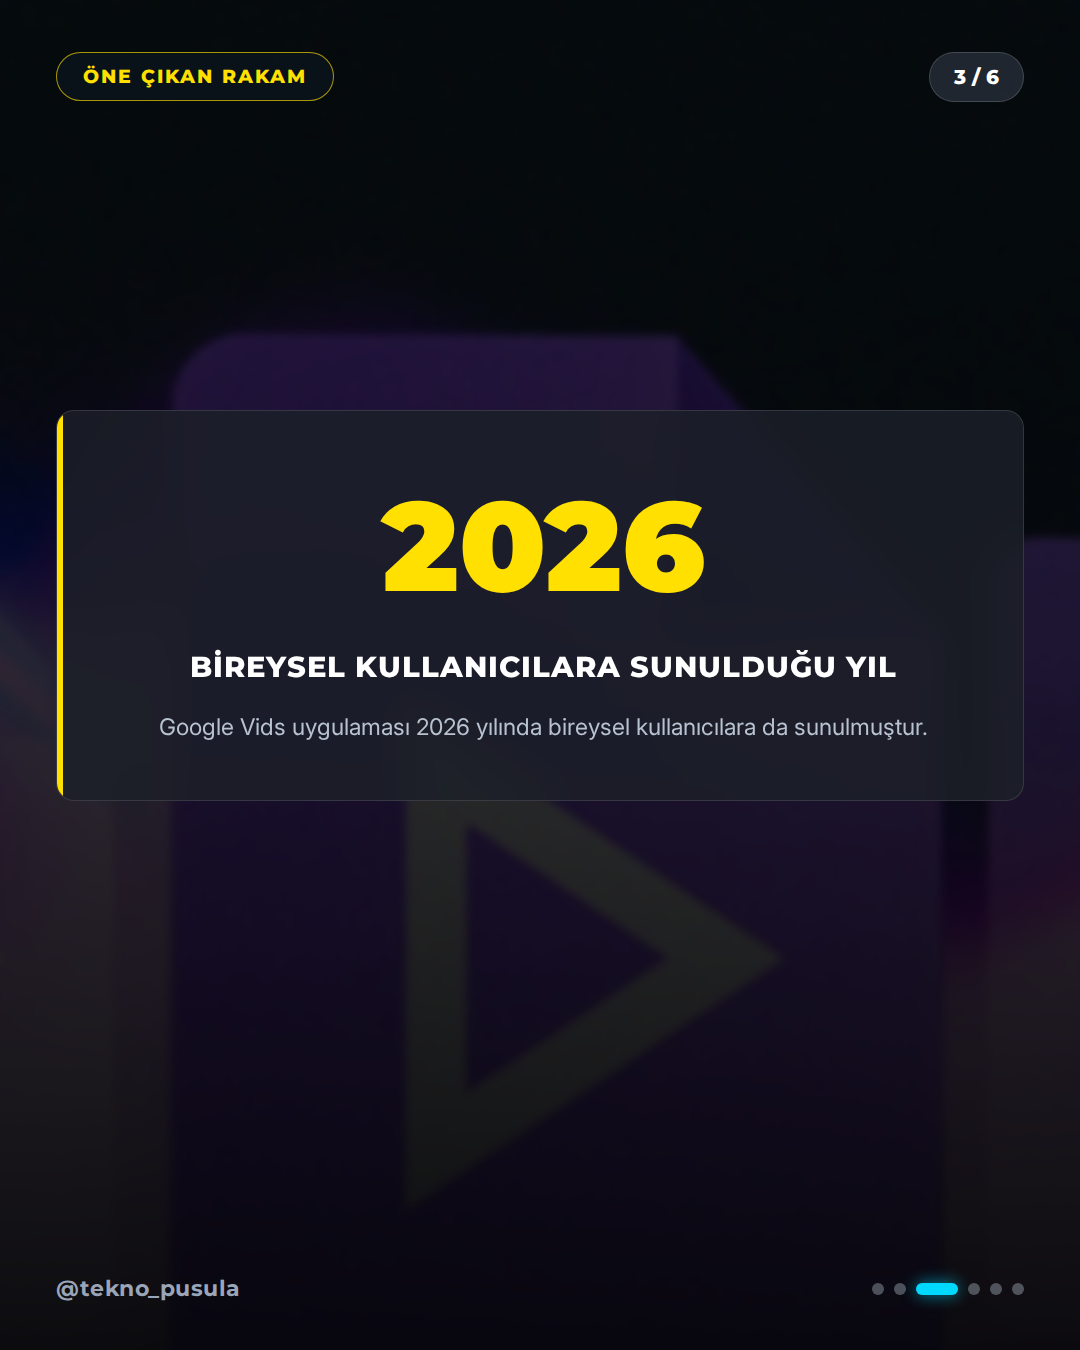
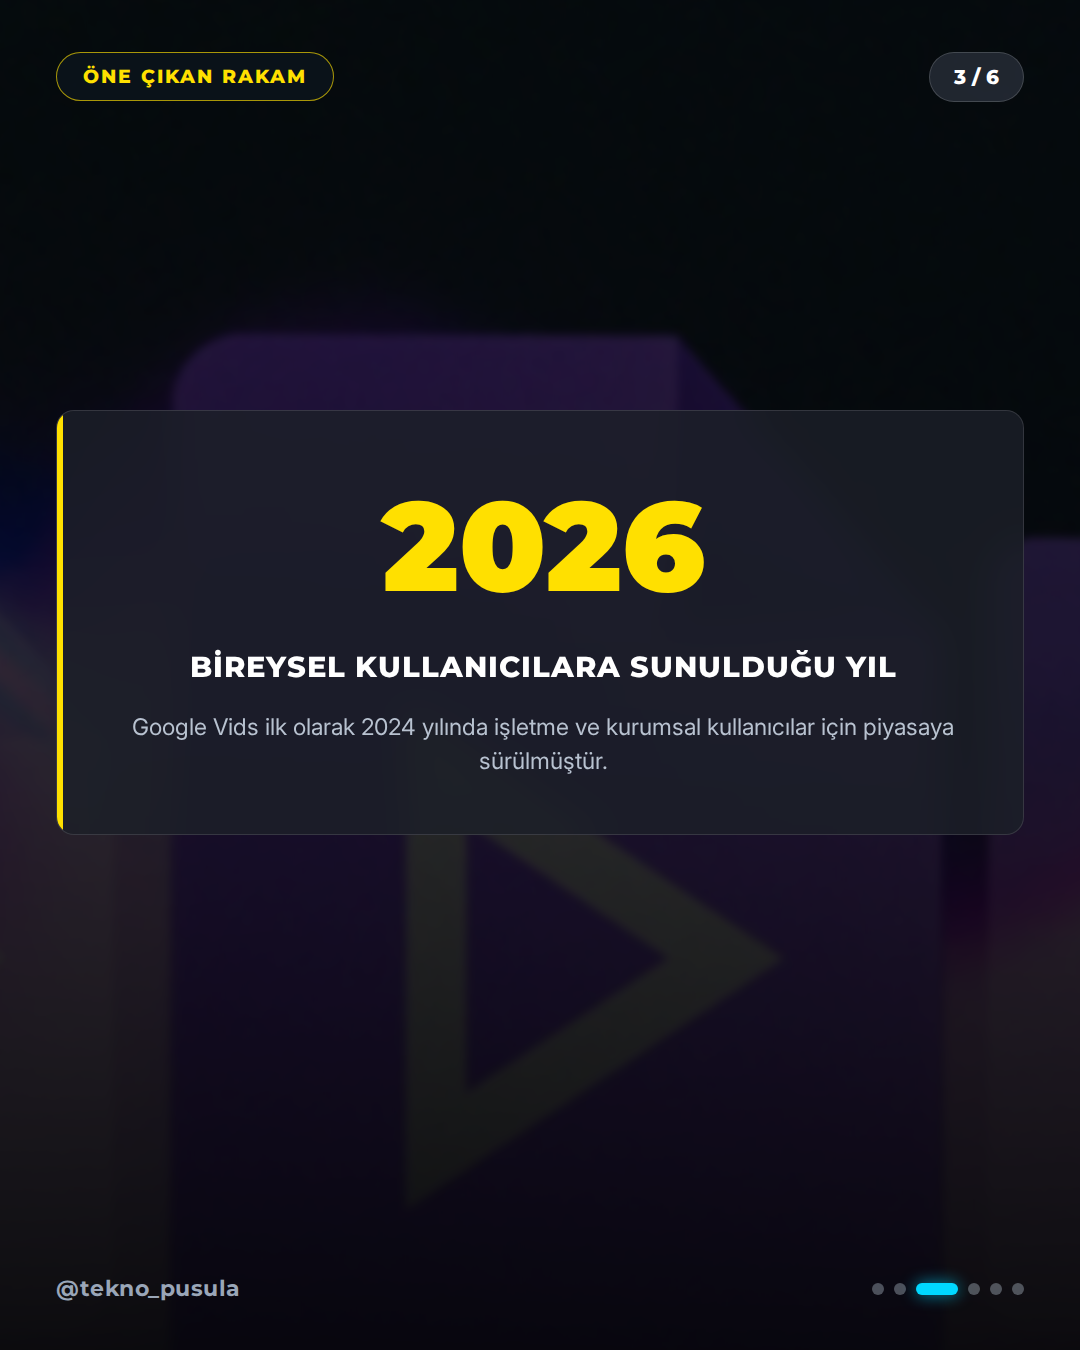
🤖 post: 2026-11-01 15:00 – There’s a Free Video Editor Inside Google Drive That Anyone

Changed region(s): [[0.1222, 0.5289, 0.8861, 0.5911], [0.0306, 0.5911, 0.0611, 0.6222]]

diff --git a/output/2026-11-01/03-1500-there-s-a-free-video-editor-inside-google-drive/verification.md b/output/2026-11-01/03-1500-there-s-a-free-video-editor-inside-google-drive/verification.md
@@ -2,27 +2,27 @@
 
 **Haber:** There’s a Free Video Editor Inside Google Drive That Anyone Can Use
 **Canonical URL:** https://www.wired.com/story/google-vids-free-video-editor-inside-google-drive/
-**Kaynaklar:** Wired, Ars Technica, TechCrunch, MIT Technology Review
-**Kontrol zamanı:** 2026-11-01T15:17:13+03:00
+**Kaynaklar:** Wired, Ars Technica, Google Blog, TechCrunch
+**Kontrol zamanı:** 2026-11-01T15:22:07+03:00
 **Sonuç:** ✅ YAYINLANABİLİR
 
 ---
 
 ## İddia Bazlı Sonuçlar
 
-### 1. Google Vids, Google Workspace paketinin bir parçası olarak sunulan çevrimiçi bir video düzenleme uygulamasıdır.
+### 1. Google Vids, Google Workspace bünyesinde yer alan çevrimiçi bir video düzenleme paketidir.
 - **Karar:** ✅ `supported`
 - **Kanıtlar:**
   - [https://www.wired.com/story/google-vids-free-video-editor-inside-google-drive/](https://www.wired.com/story/google-vids-free-video-editor-inside-google-drive/)
     > There's more to the suite of Google Workspace tools than you might have realized though, including an online video editing package called Google Vids.
 
-### 2. Google Vids, ilk olarak 2024 yılında iş ve kurumsal kullanıcılar için piyasaya sürülmüştür.
+### 2. Google Vids ilk olarak 2024 yılında işletme ve kurumsal kullanıcılar için piyasaya sürülmüştür.
 - **Karar:** ✅ `supported`
 - **Kanıtlar:**
   - [https://www.wired.com/story/google-vids-free-video-editor-inside-google-drive/](https://www.wired.com/story/google-vids-free-video-editor-inside-google-drive/)
     > Originally launched in 2024 for business and enterprise users, the app was made available to individuals in 2026 and continues to get regular updates from Google.
 
-### 3. Google Vids uygulaması 2026 yılında bireysel kullanıcılara da sunulmuştur.
+### 3. Google Vids, 2026 yılında bireysel kullanıcılara sunulmuştur.
 - **Karar:** ✅ `supported`
 - **Kanıtlar:**
   - [https://www.wired.com/story/google-vids-free-video-editor-inside-google-drive/](https://www.wired.com/story/google-vids-free-video-editor-inside-google-drive/)
@@ -34,11 +34,13 @@
   - [https://www.wired.com/story/google-vids-free-video-editor-inside-google-drive/](https://www.wired.com/story/google-vids-free-video-editor-inside-google-drive/)
     > Since it's both free to use and designed to run in a web browser, it's not capable of pro-level, high-resolution, multitrack video editing.
 
-### 5. Google Vids içerisinde Veo 3.1 modeli kullanılarak yapay zeka videoları oluşturulabilir.
+### 5. Google Vids arayüzünde Veo 3.1 modeli ile yapay zeka videoları oluşturulabilir.
 - **Karar:** ✅ `supported`
 - **Kanıtlar:**
   - [https://www.wired.com/story/google-vids-free-video-editor-inside-google-drive/](https://www.wired.com/story/google-vids-free-video-editor-inside-google-drive/)
     > You can generate AI videos with the Veo 3.1 model, turn a slideshow into a video, work from a template, upload an existing video as a starting point, create an AI music track, record a video using your camera, produce a video with an AI avatar, or create a storyboard outline.
+  - [https://www.wired.com/story/google-vids-free-video-editor-inside-google-drive/](https://www.wired.com/story/google-vids-free-video-editor-inside-google-drive/)
+    > You can generate AI videos with the Veo 3.1 model, turn a slideshow into a video, work from a template...
 
 ---
 
@@ -46,15 +48,15 @@
 
 | İddia | 1. Tur | 2. Tur | Nihai |
 |-------|--------|--------|-------|
-| Google Vids, Google Workspace paketinin bir parçası olarak s | supported | supported | supported |
-| Google Vids, ilk olarak 2024 yılında iş ve kurumsal kullanıc | supported | supported | supported |
-| Google Vids uygulaması 2026 yılında bireysel kullanıcılara d | supported | supported | supported |
+| Google Vids, Google Workspace bünyesinde yer alan çevrimiçi  | supported | supported | supported |
+| Google Vids ilk olarak 2024 yılında işletme ve kurumsal kull | supported | supported | supported |
+| Google Vids, 2026 yılında bireysel kullanıcılara sunulmuştur | supported | supported | supported |
 | Google Vids kullanımı ücretsizdir ve bir web tarayıcısında ç | supported | supported | supported |
-| Google Vids içerisinde Veo 3.1 modeli kullanılarak yapay zek | supported | supported | supported |
+| Google Vids arayüzünde Veo 3.1 modeli ile yapay zeka videola | supported | supported | supported |
 
 ## Kaynak Metinleri
 
 - `sources/source-1.txt` — https://www.wired.com/story/google-vids-free-video-editor-inside-google-drive/
 - `sources/source-2.txt` — https://arstechnica.com/space/2026/10/think-you-can-save-the-hubble-space-telescope-nasa-wants-to-know/
-- `sources/source-3.txt` — https://techcrunch.com/2026/10/30/googles-first-data-center-satellite-is-online-and-writing-poetry/
-- `sources/source-4.txt` — https://www.technologyreview.com/2026/10/28/1147767/the-download-dead-startups-fueling-ai-interspecies-communication/
+- `sources/source-3.txt` — https://blog.google/products-and-platforms/devices/fitbit/google-fitbit-edge-on-shelves-now/
+- `sources/source-4.txt` — https://techcrunch.com/2026/10/30/googles-first-data-center-satellite-is-online-and-writing-poetry/

diff --git a/output/2026-11-01/03-1500-there-s-a-free-video-editor-inside-google-drive/captions.md b/output/2026-11-01/03-1500-there-s-a-free-video-editor-inside-google-drive/captions.md
@@ -2,62 +2,70 @@
 
 ## INSTAGRAM
 
-Google Vids artık herkese açık! Tarayıcı tabanlı bu müthiş video düzenleme uygulaması sonunda bireysel kullanıcılara da sunuldu.
+Google Vids sonunda bireysel kullanıcılara açılıyor! Tarayıcı üzerinden hiçbir ek kurulum gerektirmeden video düzenlemek artık çok kolay.
 
-Google Workspace paketinin bir parçası olan uygulama, tamamen ücretsiz olarak tarayıcınız üzerinden çalışıyor.
+Google Workspace bünyesindeki bu araç, Veo 3.1 yapay zeka modeliyle destekleniyor ve tamamen ücretsiz sunuluyor.
 
-İçerisindeki Veo 3.1 yapay zeka modeli sayesinde zahmetsizce videolar üretebilirsiniz.
+Tarayıcı üzerinden yapay zeka ile video oluşturma fikrini nasıl buluyorsunuz?
 
-Google Vids ile tarayıcı üzerinden video oluşturmayı deneyecek misiniz?
+Kaynak: Google Blog, TechCrunch
 
-Kaynak: TechCrunch
-
-#GoogleVids #YapayZeka #Teknoloji #VideoDüzenleme #GoogleWorkspace #TechNews #AI #Yazılım
+#GoogleVids #YapayZeka #Teknoloji #VideoDüzenleme #GoogleWorkspace #AITools #TechNews #İnovasyon
 
 ## TIKTOK
 
-Google Vids sonunda herkese açık! Tarayıcı üzerinden ücretsiz yapay zeka videoları üretmek artık çok kolay. Kaynak: TechCrunch
+Google Vids artık herkese açık! Tarayıcıdan yapay zekayla video yapmak çok kolay. Ne düşünüyorsunuz?
 
-#GoogleVids #YapayZeka #Teknoloji #TechTok
+Kaynak: TechCrunch
+
+#GoogleVids #YapayZeka #Teknoloji #TechNews
 
 ## X
 
-Google Vids artık bireysel kullanıcılara da açık! Tarayıcı tabanlı bu ücretsiz uygulama ve Veo 3.1 yapay zeka desteğiyle kolayca video üretebilirsiniz. Kaynak: TechCrunch
+Google'ın tarayıcı tabanlı video düzenleme aracı Google Vids, bireysel kullanıcılara açıldı! Veo 3.1 yapay zeka modeliyle desteklenen bu ücretsiz aracı deneyecek misiniz?
+
+Kaynak: Google Blog
+
+#GoogleVids #YapayZeka
 
 #GoogleVids #YapayZeka
 
 ## THREADS
 
-Google Vids Artık Herkese Açık! 🚀
+Google Vids Bireysel Kullanıcılarla Buluşuyor
 
-Tarayıcı tabanlı video düzenleme uygulaması Google Vids, bireysel kullanıcılara sunuldu. Veo 3.1 yapay zeka desteğiyle artık herkes kolayca video üretebilecek.
+Google Workspace ekosisteminin tarayıcı tabanlı video düzenleme aracı Google Vids, bireysel kullanıcılara ücretsiz olarak sunulmaya başlandı.
 
-Google Vids ile tarayıcı üzerinden video oluşturmayı deneyecek misiniz?
+Veo 3.1 yapay zeka modeliyle desteklenen araç, pratik çözümler sunuyor.
 
-💭 Kaynak: TechCrunch
+Tarayıcı üzerinden yapay zeka ile video oluşturma fikrini nasıl buluyorsunuz? 💭
+
+Kaynak: Google Blog
+
+#GoogleVids
 
 #GoogleVids
 
 ## LINKEDIN
 
-Google Workspace ailesinin önemli bir parçası olan Google Vids, artık bireysel kullanıcılara da açıldı. Kurumsal çıkışının ardından gelen bu hamle, içerik üreticileri ve profesyoneller için tarayıcı tabanlı yeni bir dönemi başlatıyor.
+Google, tarayıcı tabanlı video düzenleme aracı Google Vids'i bireysel kullanıcılara açarak erişim alanını genişletiyor. Google Workspace ekosisteminde yer alan bu ücretsiz araç, Veo 3.1 yapay zeka modeli desteğiyle dikkat çekiyor.
 
-Veo 3.1 yapay zeka modeli ile güçlendirilen uygulama, video üretim süreçlerini demokratkleştiriyor.
+Ek kurulum gerektirmeden doğrudan web tarayıcısından çalışabilen sistem, içerik üretimi ve iş akışlarında pratik çözümler arayan profesyoneller için süreci hızlandırıyor.
 
-Google Vids ile tarayıcı üzerinden video oluşturmayı deneyecek misiniz?
+Tarayıcı üzerinden yapay zeka ile video oluşturma fikrini nasıl buluyorsunuz?
 
-Kaynak: TechCrunch
+Kaynak: TechCrunch, Google Blog
 
-#GoogleVids #YapayZeka #TeknolojiGelişmeleri #GoogleWorkspace #İçerikÜretimi
+#GoogleVids #YapayZeka #Teknoloji #GoogleWorkspace #İnovasyon
 
 ## FACEBOOK
 
-Google Vids sonunda herkese açık! Tarayıcı tabanlı ve ücretsiz video düzenleme uygulaması artık bireysel kullanıcıların da hizmetinde.
+Google Vids artık bireysel kullanıcılara açılıyor! Tarayıcı tabanlı bu ücretsiz video düzenleme aracı ile işleriniz çok daha kolay.
 
-Veo 3.1 yapay zeka modeli ile desteklenen bu araç sayesinde dilediğiniz gibi videolar üretebilirsiniz.
+Veo 3.1 yapay zeka modeli desteği sayesinde ek kurulum gerekmeden hızlıca videolar oluşturabilirsiniz.
 
-Google Vids ile tarayıcı üzerinden video oluşturmayı deneyecek misiniz?
+Tarayıcı üzerinden yapay zeka ile video oluşturma fikrini nasıl buluyorsunuz?
 
-Kaynak: TechCrunch
+Kaynak: Google Blog, TechCrunch
 
-#GoogleVids #YapayZeka #Teknoloji #SosyalMedya
+#GoogleVids #YapayZeka #Teknoloji #GoogleWorkspace
